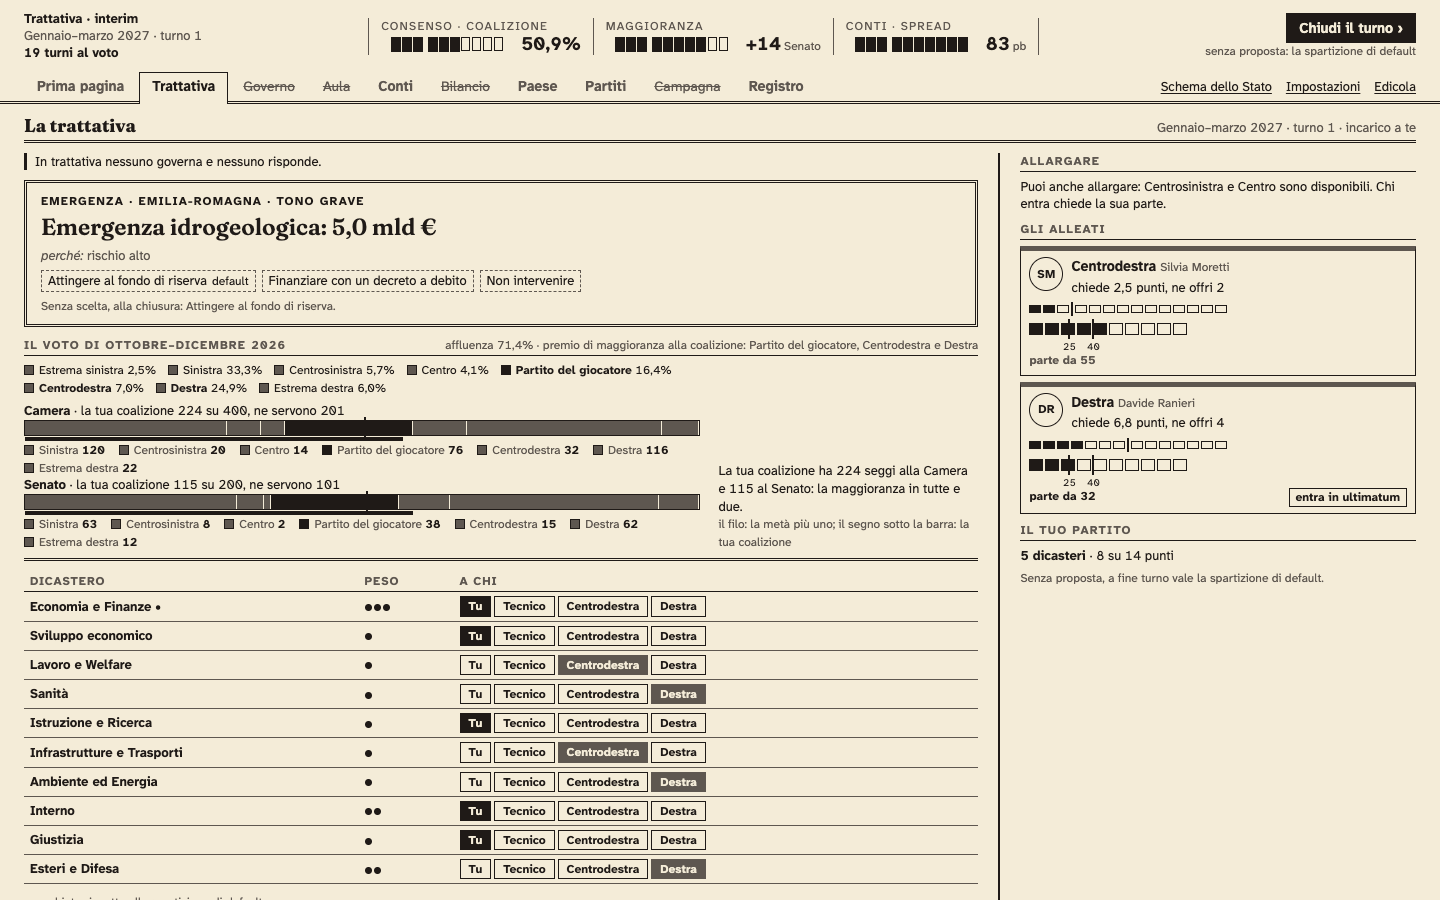
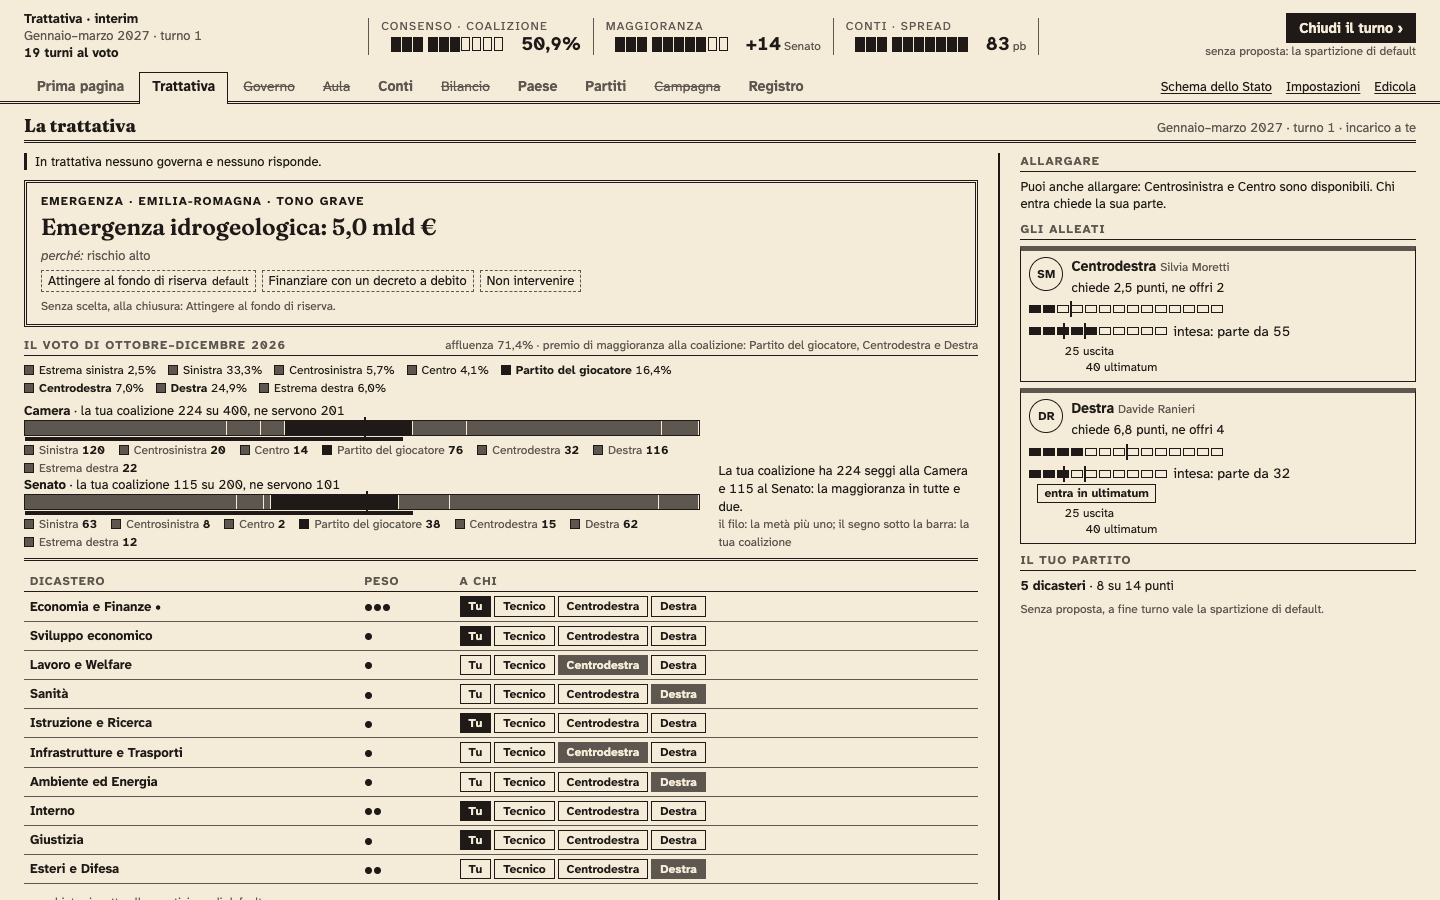
fix(app): intesa di partenza con Caselle e testi della trattativa

Changed region(s): [[0.6875, 0.3422, 1.0, 0.6844], [0.9062, 0.5289, 0.9688, 0.56]]

diff --git a/app/src/lib/trattativa/Alleati.svelte b/app/src/lib/trattativa/Alleati.svelte
@@ -85,12 +85,13 @@
       <span><b>{a.nome}</b> <span class="min muto">{leader(a.id)}</span></span>
       <span class="sec">{t("trattativa.chiede_offri", { x: numero(a.richiesta, 1), o: numero(a.offerta) })}</span>
       <span class="largo"><Caselle piene={a.offerta} su={totale} filo={Math.ceil(a.richiesta)} rosso={a.scarto < 0} nome="" /></span>
-      <div class="largo">
-        <div class="ib" role="img" aria-label={t("trattativa.intesa_barra", { n: numero(a.intesa, 0), ultimatum: numero(vista.soglie.ultimatum, 0), uscita: numero(vista.soglie.uscita, 0) })}>
-          <span class="cas" class:rs={a.stato !== "ok"} aria-hidden="true">{#each { length: 10 }, i (i)}<i data-tagli-ignora class:on={i < Math.round(a.intesa / 10)}></i>{/each}</span>
-          {#each [vista.soglie.ultimatum, vista.soglie.uscita] as soglia, i (i)}<b style:left="{(soglia / 10) * 16 - 1}px" aria-hidden="true"></b><em style:left="{(soglia / 10) * 16}px" aria-hidden="true">{numero(soglia, 0)}</em>{/each}
-        </div>
-        <span class="ints"><b class:male={a.stato !== "ok"}>{t("trattativa.intesa_parte", { n: numero(a.intesa, 0) })}</b>{#if a.stato !== "ok"}<span class="chip">{t(a.stato === "uscita" ? "trattativa.puo_uscire" : "trattativa.entra_ultimatum")}</span>{/if}</span>
+      <div class="largo" role="img" aria-label={t("trattativa.intesa_barra", { n: numero(a.intesa, 0), ultimatum: numero(vista.soglie.ultimatum, 0), uscita: numero(vista.soglie.uscita, 0) })}>
+        <Caselle piene={Math.round(a.intesa / 10)} su={10} filo={[vista.soglie.uscita / 10, vista.soglie.ultimatum / 10]} rosso={a.stato !== "ok"} nome={t("trattativa.intesa_parte", { n: numero(a.intesa, 0) })} />
+        {#if a.stato !== "ok"}<span class="chip">{t(a.stato === "uscita" ? "trattativa.puo_uscire" : "trattativa.entra_ultimatum")}</span>{/if}
+        <span class="soglie min muto" aria-hidden="true">
+          <span style:--x="{vista.soglie.uscita / 10 * 14}px" class="u">{t("trattativa.soglia_uscita", { n: numero(vista.soglie.uscita, 0) })}</span>
+          <span style:--x="{vista.soglie.ultimatum / 10 * 14}px" class="l">{t("trattativa.soglia_ultimatum", { n: numero(vista.soglie.ultimatum, 0) })}</span>
+        </span>
       </div>
     </div>
   {/each}
@@ -124,15 +125,8 @@
   .all > :not(.fz, .largo) { grid-column: 2 }
   .all .fz { grid-row: 1 / span 2; display: inline-flex }
   .all .largo { grid-column: 1 / -1 }
-  .ib { position: relative; width: 158px; margin: 2px 0 17px }
-  .ib .cas { display: flex; gap: 2px }
-  .ib .cas i { width: 14px; height: 12px; border: 1.5px solid var(--ink); flex: none }
-  .ib .cas i.on { background: var(--ink) }
-  .ib .cas.rs i { border-color: var(--rosso) }
-  .ib .cas.rs i.on { background: var(--rosso) }
-  .ib b { position: absolute; top: -4px; height: 20px; width: 2px; background: var(--rosso) }
-  .ib em { position: absolute; top: 17px; font-size: 10px; font-style: normal; color: var(--rosso); transform: translateX(-50%); white-space: nowrap }
-  .ints { font-size: var(--c-min); color: var(--grigio); display: flex; justify-content: space-between; gap: 6px; flex-wrap: wrap }
-  .ints .male { color: var(--rosso) }
-  .chip { display: inline-block; border: 1.5px solid var(--rosso); color: var(--rosso); padding: 0 6px; font-size: var(--c-min); font-weight: 700; white-space: nowrap; line-height: 1.4 }
+  .soglie { display: block; position: relative; height: 2.7em; margin-top: 2px }
+  .soglie span { position: absolute; left: var(--x); white-space: nowrap; top: 0; color: var(--rosso) }
+  .soglie .l { top: 1.35em }
+  .chip { margin-left: 8px; display: inline-block; border: 1.5px solid var(--rosso); color: var(--rosso); padding: 0 6px; font-size: var(--c-min); font-weight: 700; white-space: nowrap; line-height: 1.4 }
 </style>

diff --git a/app/src/lib/trattativa/Spartizione.svelte b/app/src/lib/trattativa/Spartizione.svelte
@@ -64,7 +64,7 @@
   .min { font-size: var(--c-min) }
   .muto { color: var(--grigio) }
   .az { display: flex; flex-wrap: wrap; gap: 6px 10px; align-items: center }
-  .rig tr.mod th.d::after { content: " •"; color: var(--biro) }
+  .rig tr.mod th.d::after { content: " •" / ""; color: var(--biro) }
   .op[aria-disabled="true"] { opacity: .55; cursor: default }
   .rig { width: 100%; border-collapse: collapse; font-size: var(--c-sec) }
   .rig th { font-size: var(--c-min); letter-spacing: .08em; text-transform: uppercase; color: var(--grigio); text-align: left; font-weight: 700; border-bottom: 1.5px solid var(--ink); padding: 2px 6px; white-space: nowrap }

diff --git a/app/src/lib/trattativa/Trattativa.svelte b/app/src/lib/trattativa/Trattativa.svelte
@@ -40,7 +40,9 @@
   const periodo = $derived(t(`cornice.trimestre_${vista.data.trimestre}` as Chiave, { anno: vista.data.anno }));
 </script>
 
-{#if vista.incarico !== null}
+{#if vista.incarico === null}
+<p class="sec muto">{t("trattativa.nessun_incarico")}</p>
+{:else}
 <div class="trt">
   <div class="capo">
     <h3 class="tit" tabindex="-1" bind:this={testa}>{t("trattativa.titolo")}</h3>
